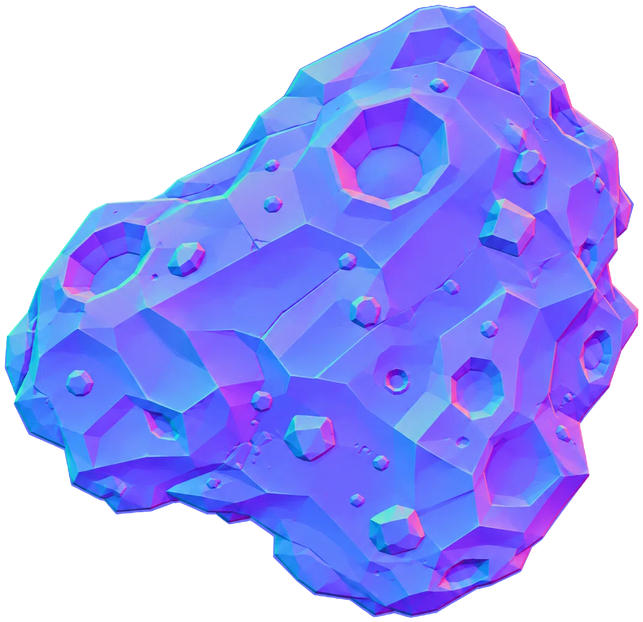
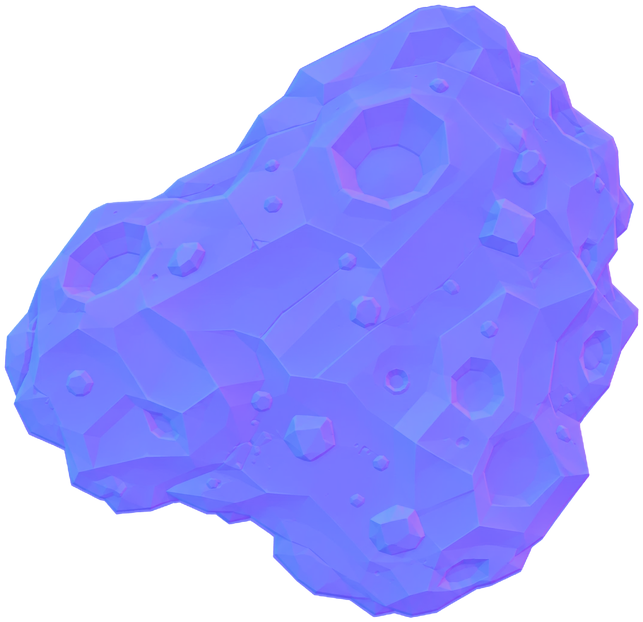
fix: restore soft 0.30 normal-map lighting balance

diff --git a/src/app/lighting-scene.ts b/src/app/lighting-scene.ts
@@ -65,19 +65,19 @@ export async function createScene(app: Application): Promise<Scene> {
   hint.anchor.set(0.5);
   app.stage.addChild(hint);
 
-  const ambient = new AmbientLight({ color: 0x93a3cc, intensity: 0.34 });
+  const ambient = new AmbientLight({ color: 0x9aa8d0, intensity: 0.5 });
   light2DSystem.addAmbientLight(ambient);
 
   // A distant, very wide point light approximates a directional key light.
   const keyLight = new PointLight({
     color: 0xfff2d8,
-    intensity: 2.4,
+    intensity: 1.7,
     radius: 5000,
   });
 
   const pointerLight = new PointLight({
     color: 0x9fe0ff,
-    intensity: 2.2,
+    intensity: 1.8,
     radius: 500,
   });
 

diff --git a/docs/DECISIONS.md b/docs/DECISIONS.md
@@ -119,6 +119,13 @@ four lights, so the map is baked once (with no casters) and refreshed per frame 
 `shadowSystem.casters` is non-empty. The package imports a Spine peer (`@esotericsoftware/spine-pixi-v8`)
 even when Spine isn't used, so that peer is installed as a runtime dependency.
 
+The library is diffuse-only, so there is no roughness/metalness response. Because the
+reference art already includes baked shading, full-strength tangent-space normals read as
+embossed/polished metal. The processed normal maps are therefore softened to ~0.30 strength
+(blended toward flat) and the key light is kept soft.
+
 **Consequences:** lighting is WebGL-only; keep `preference: 'webgl'` in the app. Processed
 runtime art lives in `public/assets/lighting/`. Replacing the lighting library later means
-replacing `LightSprite` usage in `lighting-scene.ts` only.
+replacing `LightSprite` usage in `lighting-scene.ts` only. If real PBR materials are needed,
+this approach and art are not enough — that requires albedo/roughness/metalness maps and a
+different shading model.

diff --git a/public/assets/lighting/README.md b/public/assets/lighting/README.md
@@ -16,7 +16,9 @@ Processing steps (one-off, not a runtime pipeline):
 - resampled in premultiplied alpha (LANCZOS) at roughly 2× their on-screen size,
 - trimmed to the silhouette with a 4 px transparent gutter,
 - color and normal maps dilated into the gutter so linear filtering has no dark halo,
-- normal maps masked with the color alpha and paired at identical framing.
+- normal maps masked with the color alpha and paired at identical framing,
+- normal strength softened to **~0.30** (blended toward a flat `(0, 0, 1)` normal) because the
+  reference art already contains baked shading; full-strength normals read as polished metal.
 
 `pixijs-light2d` expects normal maps with RGB encoded in tangent space (red = X, green = Y,
 blue = Z). Both pairs come from the supplied reference art; re-export lossless versions if the

diff --git a/README.md b/README.md
@@ -90,6 +90,9 @@ with `LightSprite` + normal maps:
 - **Omni light** — a point light follows the pointer.
 - **Ambient fill** for readability.
 - The shadow map is baked once while there are no shadow casters.
+- The art already has baked cel shading, so the normal maps are baked at ~0.30 strength; at full
+  strength the diffuse lighting reads as embossed metal. Raise it in the normal-map processing if
+  you want a stronger 2.5D relief.
 
 ## Reference art
 
